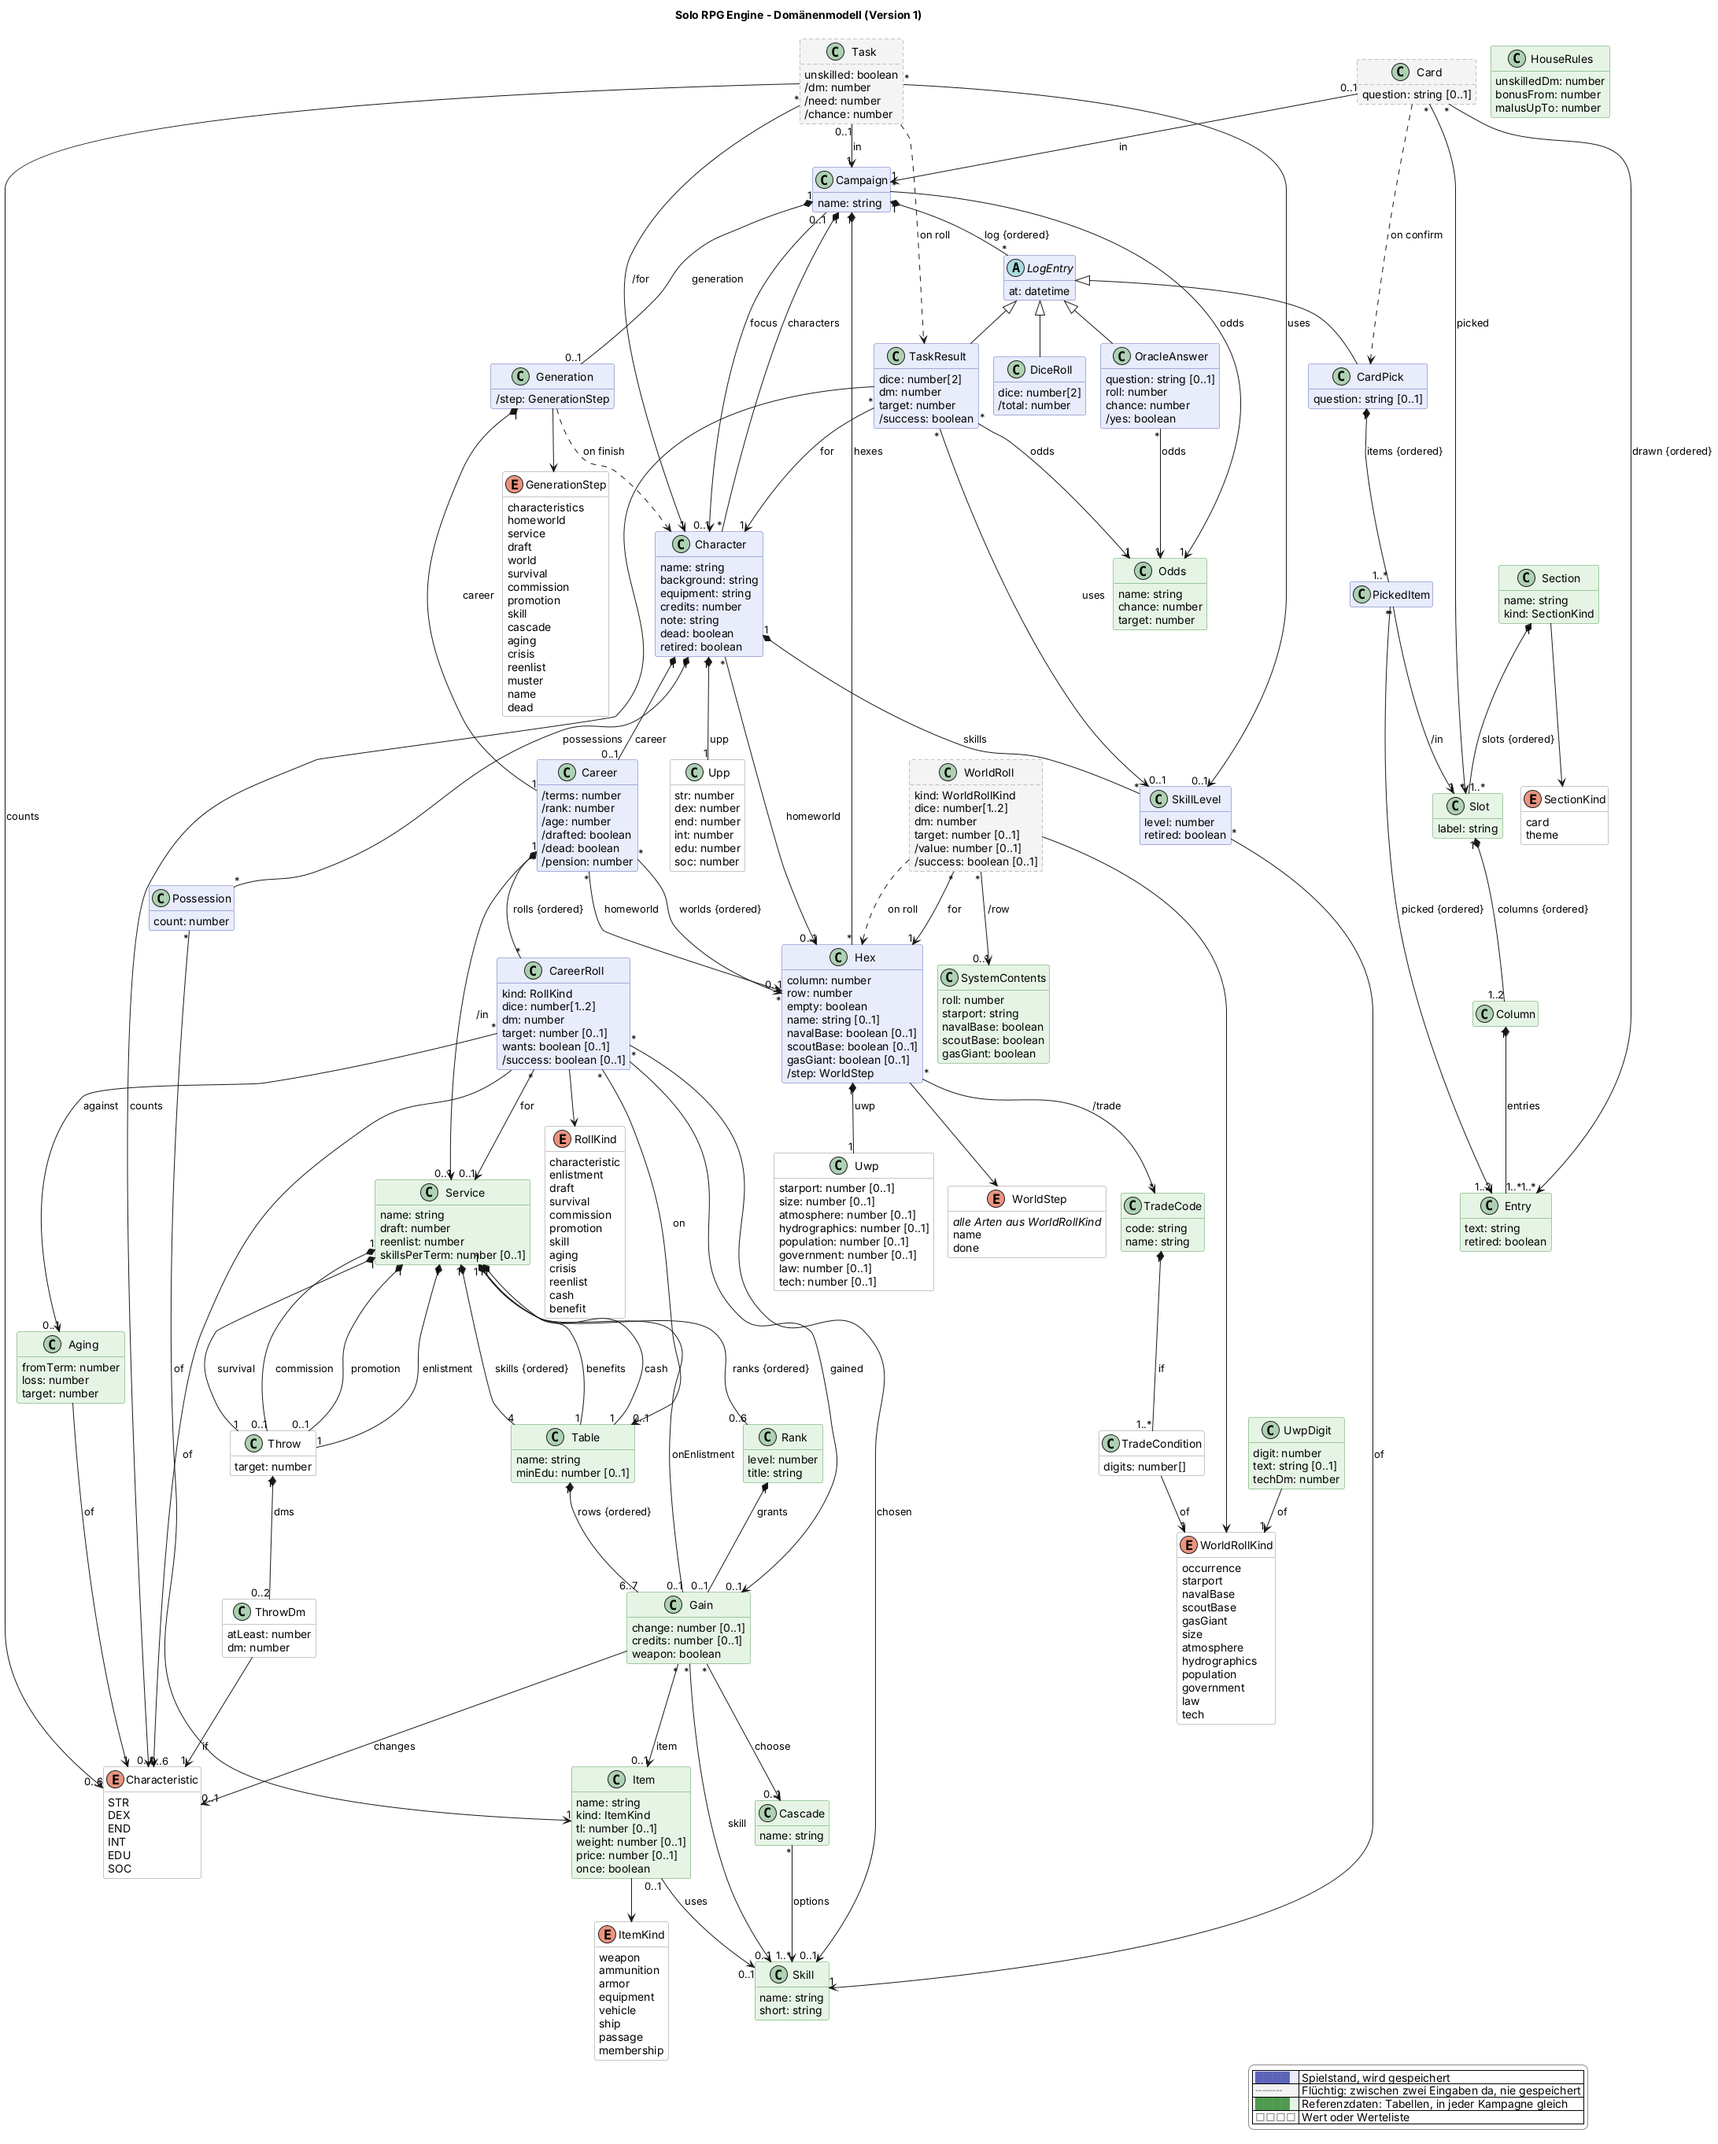
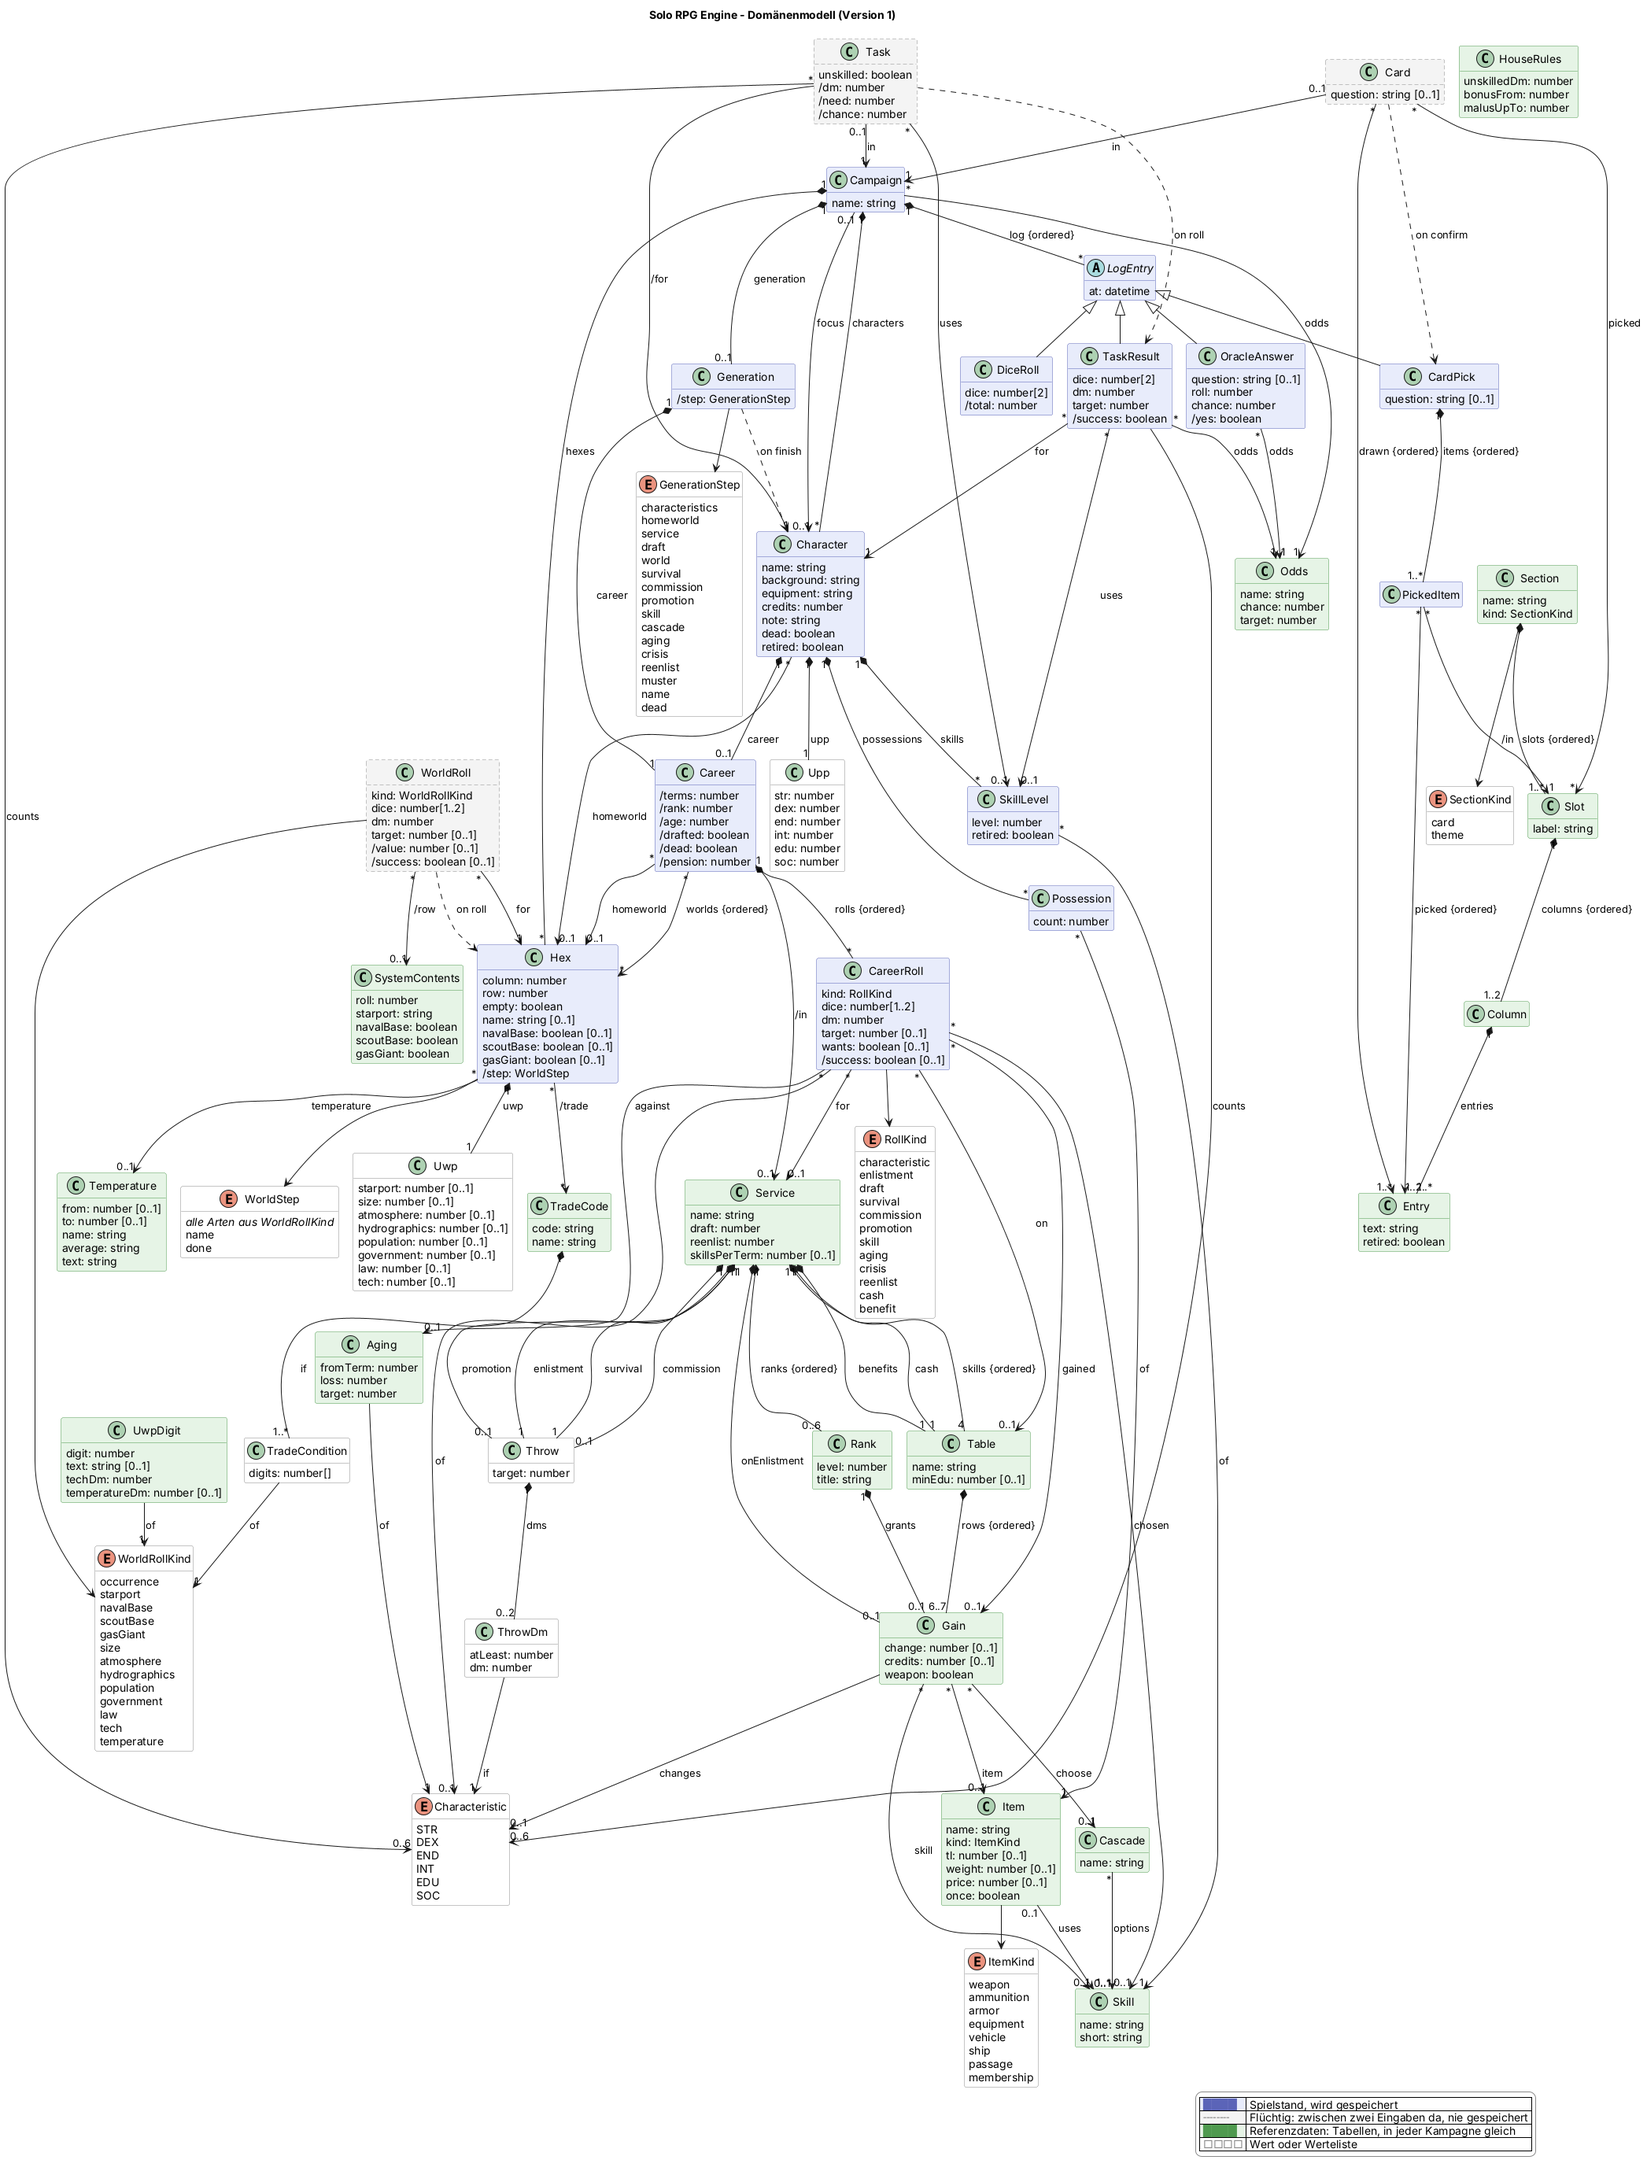
Domänenmodell: Temperatur als zusätzlicher Wurf der Weltenerschaffung (Entwurf)
Nach Mongoose Traveller 2e (Core Rulebook S. 251): 2W6 + DM der Atmosphäre,
Ergebnis Gefroren, Kalt, Gemäßigt, Heiß oder Kochend. Neu im Bild:
Hex.temperature, WorldRollKind.temperature, UwpDigit.temperatureDm und die
Referenzdaten Temperature. Wartet auf Freigabe; zwei offene Fragen.

Claude-Session: https://claude.ai/code/session_016ZF27xE7fAYpUscy8qneJp

diff --git a/docs/domain-model.md b/docs/domain-model.md
@@ -46,6 +46,11 @@ Lücken unter [Wo der Code noch nicht folgt](#wo-der-code-noch-nicht-folgt).
 > nur noch der Verwaltung. Neu im Bild: `Campaign.focus`; `Task.for` ist jetzt abgeleitet
 > (`/for`). Der UI-Entwurf dazu liegt unter [`ui-entwurf/charakter-leiste/`](ui-entwurf/charakter-leiste/).
 >
+> **Entwurf, wartet auf Freigabe** (2. November 2026): die Temperatur als zusätzlicher Wurf der
+> Weltenerschaffung nach Mongoose Traveller 2e (siehe *Weltenerschaffung*, Schritt 4). Neu im Bild:
+> `Hex.temperature`, `WorldRollKind.temperature`, `UwpDigit.temperatureDm` und als Referenzdaten
+> `Temperature`. Offen sind noch die Fragen unter [Offene Fragen](#offene-fragen).
+>
 > **Zurzeit** hat die Karte nur die Felder mit Einträgen aus Mythic und die Namen, alle als Paar: Aktion und
 > Beschreibung des Zufallsereignisses, Hören und Riechen, die drei Namen sowie die Themen-Tafeln NSC, NSC-Aktionen,
 > Welt (mit Schiff), Wesen und Handlung mit Mythics Elements-Tabellen. Alle übrigen Felder und Bereiche sind ausgeblendet, bis es
@@ -135,6 +140,8 @@ Vacc Suit, Jack-of-all-Trades, …), Terms, Cr.
 | Ziffer des UWP | `UwpDigit` | Eine Ziffer einer Stelle des UWP mit ihrem Text und ihrem DM auf den TL, z. B. Atmosphäre 8, Dense |
 | Systeminhalt | `SystemContents` | Eine Zeile der System Contents Table: Raumhafen, Marinebasis, Scoutbasis, Gasriese |
 | Handelscode | `TradeCode` | Ag, Na, In, Ni, Ri, Po, Wa, De, Va, As, Ic, mit Bedingungen an das UWP |
+| Temperatur | `Hex.temperature`, `Temperature` | Wie warm eine Welt im Mittel ist: Gefroren, Kalt, Gemäßigt, Heiß oder Kochend, nach Mongoose Traveller 2e (S. 251); nicht Teil des UWP |
+| Temperatur-DM | `UwpDigit.temperatureDm` | Der DM einer Atmosphäre auf den Temperaturwurf, z. B. −2 bei Atmosphäre 2 oder 3 |
 
 ## Regeln, die das Bild nicht zeigt
 
@@ -471,14 +478,30 @@ Vacc Suit, Jack-of-all-Trades, …), Terms, Cr.
      Sonst begrenzt nichts: Atmosphäre D–F, Regierung E–F und Gesetz über A haben in den Charts
      keinen Text (`UwpDigit.text` fehlt), die App zeigt dann nur die Ziffer (Ziffern über F in eHex
      ohne I und O, der Raumhafen X ist so die Ziffer 31).
-  4. *Name*: Zum Schluss gibt man den Namen ein (nicht leer); dann ist die Welt fertig (`done`).
+  4. *Temperatur* (`temperature`), nach Mongoose Traveller 2e (Core Rulebook, S. 251): 2W6 plus
+     den Temperatur-DM der Atmosphäre (`UwpDigit.temperatureDm`): 0 oder 1 kein DM, 2 oder 3 −2,
+     4, 5 oder E −1, 6 oder 7 ±0, 8 oder 9 +1, A, D oder F +2, B oder C +6. Die Summe wählt die
+     Zeile der Tabelle `Temperature` (`from` bis `to`, an den Enden offen): bis 2 *Gefroren*
+     (−51 °C oder kälter), 3–4 *Kalt* (−51 bis 0 °C), 5–9 *Gemäßigt* (0 bis 30 °C), 10–11 *Heiß*
+     (31 bis 80 °C), ab 12 *Kochend* (81 °C und mehr). Gespeichert wird die Zeile, nicht die Summe.
+     Bei Atmosphäre 0 oder 1 sagt die Weltkarte dazu, dass die Temperatur zwischen glühender Hitze
+     am Tag und Frost in der Nacht schwankt. Die Temperatur ändert nichts an anderen Werten; die
+     Hydrographie bleibt nach Classic Traveller. Die Texte der Tabelle sind eigene, deutsche
+     Beschreibungen, keine Übersetzung des Regeltexts.
+  5. *Name*: Zum Schluss gibt man den Namen ein (nicht leer); dann ist die Welt fertig (`done`).
+
+  **Welten ohne Temperatur.** Welten, die vor diesem Schritt fertig wurden, haben keine Temperatur.
+  Das ist erlaubt: Eine fertige Welt darf ohne Temperatur sein, und ihre Weltkarte bietet dann
+  „Temperatur würfeln“ an, mit derselben Würfelanimation. Eine Welt in Erschaffung, die schon den TL
+  hat, macht mit der Temperatur weiter.
 
   **Verwerfen** geht, solange die Welt in Erschaffung ist, und macht das Feld wieder zu einem nicht
   erzeugten. Ein leeres Feld und eine fertige Welt bleiben, wie sie sind. Die Weltenerschaffung
   steht nicht im Log und hat keinen Verlauf. Beim Import wird jedes Hexfeld gegen diese Regeln
   geprüft: Werte nur in der Reihenfolge des Ablaufs, jeder in dem Bereich, den sein Wurf ergeben
   kann, und die Werte ohne Wurf so, wie die Regeln sie setzen (Atmosphäre 0 bei Größe 0, keine
-  Marinebasis bei Raumhafen C). Hexfelder aus der Zeit, als die Würfe gespeichert wurden, werden
+  Marinebasis bei Raumhafen C). Einzige Ausnahme von der Reihenfolge: Eine Welt mit Namen darf
+  ohne Temperatur sein (siehe *Welten ohne Temperatur*). Hexfelder aus der Zeit, als die Würfe gespeichert wurden, werden
   beim Laden nachgespielt und als Werte übernommen.
 - **Handelscodes** folgen aus dem UWP (`/trade`): Ein Code gilt, wenn jede seiner Bedingungen
   (`TradeCondition`: Stelle des UWP und erlaubte Ziffern) erfüllt ist. Es sind die elf aus den
@@ -495,7 +518,22 @@ Vacc Suit, Jack-of-all-Trades, …), Terms, Cr.
   (communications routes), Subsector Capital, ein Name für den Subsektor, mehrere Subsektoren zu
   einem Sektor und eine fertige Welt wieder löschen.
 
+## Offene Fragen
+
+- **Rand der habitablen Zone.** Mongoose erlaubt der Spielleitung wahlweise DM +4 (heißer Rand) oder
+  DM −4 (kalter Rand). Ohne Sternsystem weiß die App nicht, wo die Welt liegt. Empfehlung:
+  vorerst weglassen; kommt später mit dem Sternsystem oder als Wahl vor dem Wurf. Davon hängt ab,
+  ob `Hex` ein Feld für die Lage in der Zone braucht.
+- **Mongoose als zweite Regelquelle.** Bisher nennt der rechtliche Hinweis der README nur Classic
+  Traveller. Die Fair-Use-Policy von Mongoose bzw. Far Future erlaubt nach dem, was sich finden
+  ließ, kostenlose Fan-Werke, der aktuelle Wortlaut ist aber noch zu prüfen. Empfehlung: eine
+  Zeile für Mongoose Traveller 2e in die Tabelle (nur die Mechanik, eigene Texte, kein Bild) und
+  die Quelle auf „Über“ nennen.
+
 ## Wo der Code noch nicht folgt
+
+- **Temperatur.** Der Wurf, `Hex.temperature`, die Tabelle `Temperature` und
+  `UwpDigit.temperatureDm` fehlen im Code noch (Entwurf, siehe oben).
 
 Der Code für Version 1 liegt unter `src/` (siehe [ARCHITECTURE.md](../ARCHITECTURE.md)). Er folgt dem
 Diagramm mit diesen Ausnahmen:

diff --git a/README.md b/README.md
@@ -60,8 +60,8 @@ Die erste Version ist bewusst klein und **für das Smartphone** gebaut. Eine Des
   Die Erschaffung wird gespeichert: „Später weiter“ schließt sie, „Erschaffung fortsetzen“ holt sie zurück. Verwerfen geht jederzeit. Vorbild für das Verhalten: der interaktive Generator auf <https://www.batintheattic.com/traveller/interactive.html>.
 
 **Dritter Screen: Sektor** (Starter Edition, *Charts and Tables* S. 14–15 und TAS Form 6): ein Subsektor aus 8 × 10 Hexfeldern wie auf dem Subsector Map Grid, 0101 links oben. Dunkle Felder sind **nicht erzeugt**, helle ohne Zeichen **leer**. Welten stehen in der üblichen Darstellung von Classic Traveller: oben die Nummer, darüber der Raumhafen, in der Mitte die Welt (● mit Wasser, ○ ohne, Punkte für einen Asteroidengürtel), ★ Marinebasis, ▲ Scoutbasis, ein kleiner Kreis rechts oben für den Gasriesen, darunter der Name, ab Bevölkerung 9 in Großbuchstaben. Unter der Karte stehen die Welten als Liste mit UWP, Basen und Handelscodes. Die Karte lässt sich mit zwei Fingern oder mit **+ / −** zoomen und mit einem Finger verschieben. Vergrößert zeigt jede Welt unter ihrem Namen ihr UWP und, noch etwas größer, ihre Handelscodes.
-  - Ein **nicht erzeugtes Feld** antippen wählt es aus (rot umrandet); unten erscheint der Knopf **„Vorkommen würfeln“** (1W6, bei 4+ gibt es eine Welt, sonst bleibt das Feld leer). Die Würfel rollen direkt im Sektor-Fenster. Ergibt sich eine Welt, öffnet **„Welt erschaffen“** die Weltkarte, und die **Weltenerschaffung** geht dort Wurf für Wurf mit der Würfelanimation weiter wie bei der Charaktererschaffung: Raumhafen, Marine- und Scoutbasis, Gasriese, Größe, Atmosphäre, Hydrographie, Bevölkerung, Regierung, Gesetz und Tech Level, zum Schluss der Name. Jeder Knopf sagt, was gewürfelt wird und mit welchem DM. „Später weiter“ behält die Welt, Verwerfen macht das Feld wieder frei.
-  - Eine **Welt** antippen öffnet ihre Weltkarte: UWP (z. B. C788545-7) und jede Stelle im Klartext aus den Charts, Basen, Gasriese und Handelscodes. Gespeichert werden nur diese Werte; die Würfe stehen nur auf der Weltkarte, solange man gerade würfelt.
+  - Ein **nicht erzeugtes Feld** antippen wählt es aus (rot umrandet); unten erscheint der Knopf **„Vorkommen würfeln“** (1W6, bei 4+ gibt es eine Welt, sonst bleibt das Feld leer). Die Würfel rollen direkt im Sektor-Fenster. Ergibt sich eine Welt, öffnet **„Welt erschaffen“** die Weltkarte, und die **Weltenerschaffung** geht dort Wurf für Wurf mit der Würfelanimation weiter wie bei der Charaktererschaffung: Raumhafen, Marine- und Scoutbasis, Gasriese, Größe, Atmosphäre, Hydrographie, Bevölkerung, Regierung, Gesetz und Tech Level, dann die Temperatur (nach Mongoose Traveller 2e: Gefroren, Kalt, Gemäßigt, Heiß oder Kochend, mit DM nach der Atmosphäre), zum Schluss der Name. Jeder Knopf sagt, was gewürfelt wird und mit welchem DM. „Später weiter“ behält die Welt, Verwerfen macht das Feld wieder frei.
+  - Eine **Welt** antippen öffnet ihre Weltkarte: UWP (z. B. C788545-7) und jede Stelle im Klartext aus den Charts, Basen, Gasriese, Handelscodes und Temperatur; einer älteren Welt ohne Temperatur lässt sie sich dort nachwürfeln. Gespeichert werden nur diese Werte; die Würfe stehen nur auf der Weltkarte, solange man gerade würfelt.
 
 **UI-Entwurf:** Der klickbare Entwurf liegt in [docs/ui-entwurf](docs/ui-entwurf/).
 
